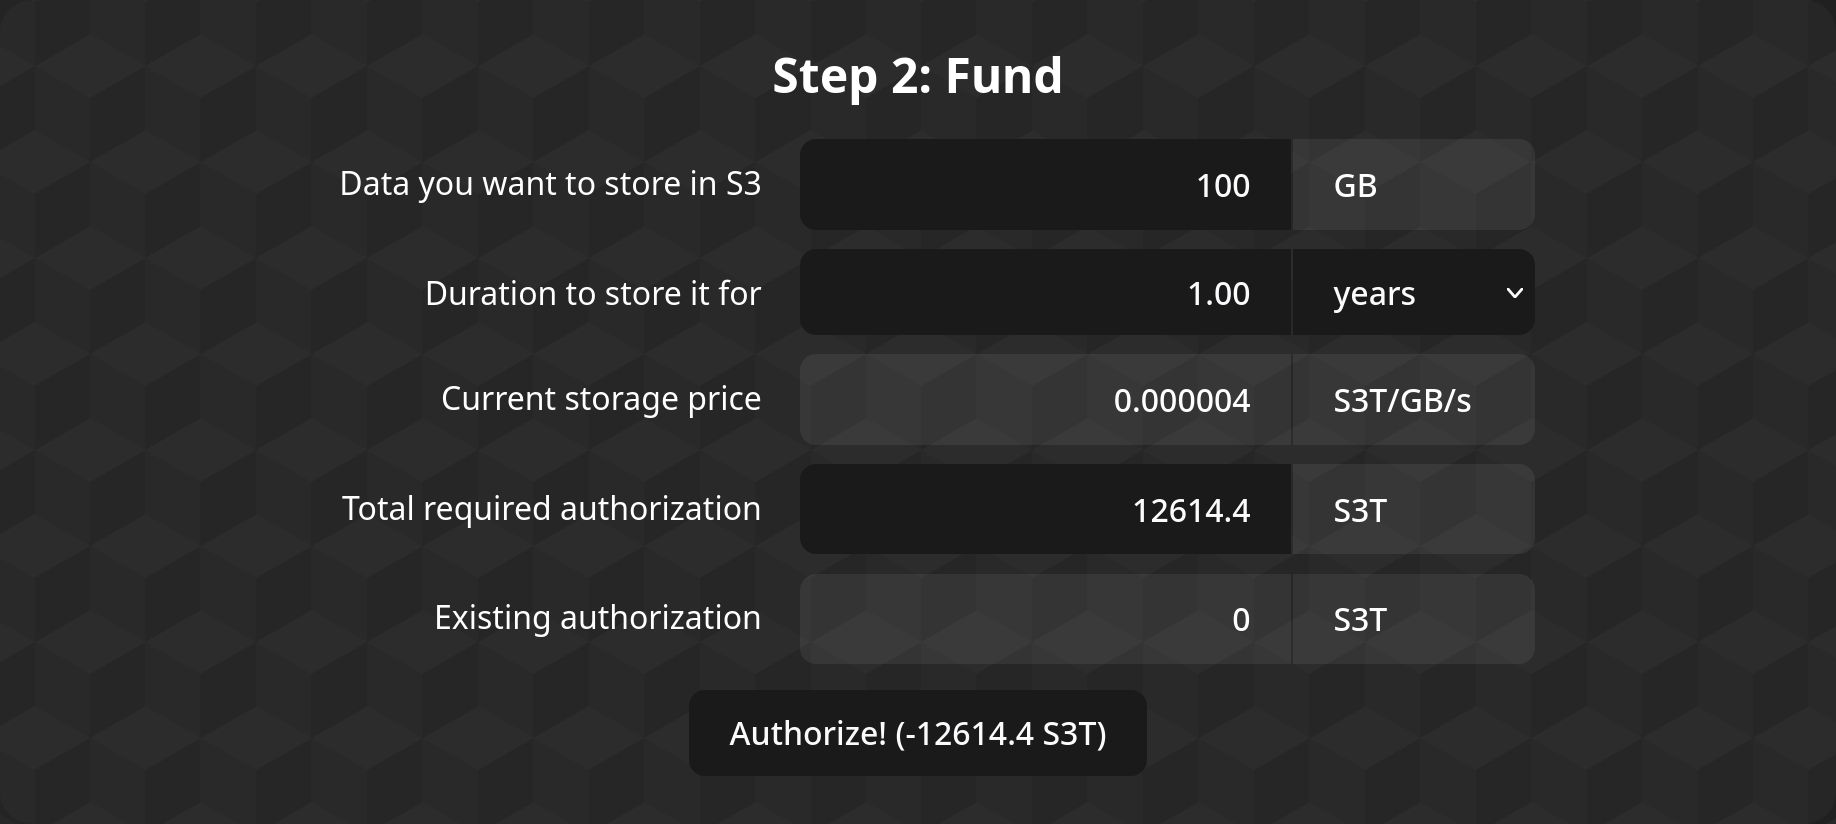
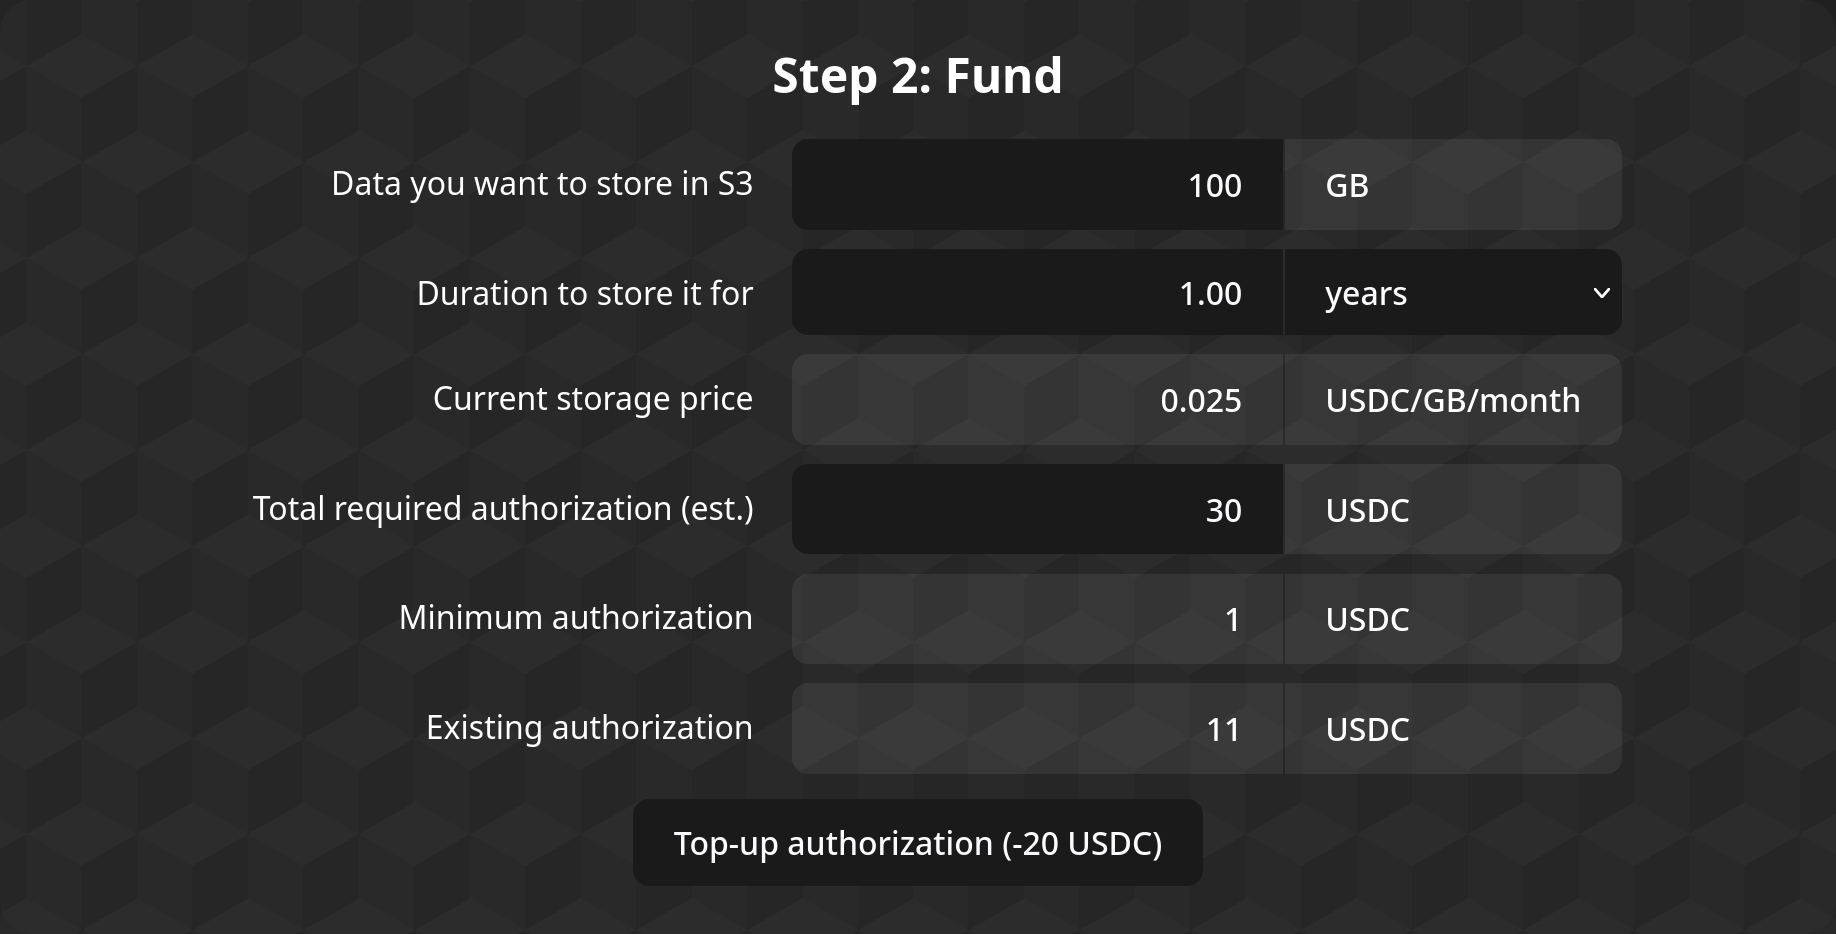
fix: Correct token symbol, decimals, and pricing

diff --git a/frontend/src/App.tsx b/frontend/src/App.tsx
@@ -27,13 +27,13 @@ function App() {
   const walletClient = useWalletClient()
   const { connect } = useConnect()
 
-  const oneGb = parseUnits('1', 6)
-  const [ amountGb, setAmountGbRaw ] = useState<bigint>(100n * oneGb)
-  const [ durationMultiplier, setDurationMultiplier ] = useState<number>(60 * 60 * 24 * 365)
-  const currency = 'S3T'
-  const decimals = 18
-  const priceGbSec = parseUnits('0.000004', decimals)
-  const [ funds, setFunds ] = useState<bigint>(() => BigInt(durationMultiplier) * amountGb * priceGbSec / oneGb)
+  const oneGb = 1000*1000
+  const [ amountGb, setAmountGbRaw ] = useState<bigint>(100n * 1000n*1000n)
+  const [ durationMultiplier, setDurationMultiplier ] = useState<number>(12)
+  const currency = 'USDC'
+  const decimals = 6
+  const priceGbMonth = parseUnits('0.025', decimals)
+  const [ funds, setFunds ] = useState<bigint>(() => BigInt(Math.round(durationMultiplier * Number(amountGb * priceGbMonth) / oneGb)))
   const [ existingDeposit, setExistingDeposit ] = useState<bigint | undefined>(undefined)
   const [ depositInProgress, setDepositInProgress ] = useState(false)
   const [ depositError, setDepositError ] = useState('')
@@ -47,11 +47,11 @@ function App() {
   const bucketLinkHref = `//${s3AappHost}`
   const consoleLink = `https://${s3consoleAappHost}` // `${bucketId}.${s3consoleAappHost}`
   const consoleLinkHref = `//${s3consoleAappHost}/browser/${bucketId}`
-  const minDeposit = parseUnits('10', 18) // TODO
+  const minDeposit = parseUnits('1', 6)
 
-  const duration: number = Number(funds) / Number(amountGb) / Number(priceGbSec) * Number(oneGb)
+  const duration: number = Number(funds) / Number(amountGb) / Number(priceGbMonth) * oneGb
   function setDuration(newDuration: number) {
-    setFunds(BigInt(newDuration) * amountGb * priceGbSec / oneGb)
+    setFunds(BigInt(Math.round(newDuration * Number(amountGb * priceGbMonth) / oneGb)))
   }
   function setAmountGb(newAmountGb: bigint) {
     if (newAmountGb < 1n) newAmountGb = 1n
@@ -162,27 +162,30 @@ function App() {
             value={durationMultiplier}
             onChange={e => setDurationMultiplier(parseInt(e.target.value))}
           >
-            <option value={1}>seconds</option>
-            <option value={60}>minutes</option>
-            <option value={60 * 60}>hours</option>
-            <option value={60 * 60 * 24}>days</option>
-            <option value={60 * 60 * 24 * 7}>weeks</option>
-            <option value={60 * 60 * 24 * 30}>months</option>
-            <option value={60 * 60 * 24 * 365}>years</option>
+            <option value={1 / 30 / 24}>hours</option>
+            <option value={1 / 30}>days</option>
+            <option value={1 / 30 * 7}>weeks</option>
+            <option value={1}>months</option>
+            <option value={12}>years</option>
           </select>
         </label>
         <label>
           <span>Current storage price</span>
-          <span className="fake-field">{formatUnits(priceGbSec, decimals)}</span>
-          <span className="fake-field"> {currency}/GB/s</span>
+          <span className="fake-field">{formatUnits(priceGbMonth, decimals)}</span>
+          <span className="fake-field"> {currency}/GB/month</span>
         </label>
         <label>
-          <span>Total required authorization</span>
+          <span>Total required authorization (est.)</span>
           <BlurUpdatedInput
             value={funds}
             stringify={v => formatUnits(v, decimals)}
             parse={v => parseUnits(v, decimals)}
             onChange={setFunds}/>
+          <span className="fake-field"> {currency}</span>
+        </label>
+        <label>
+          <span>Minimum authorization</span>
+          <span className="fake-field">{formatUnits(minDeposit, decimals)}</span>
           <span className="fake-field"> {currency}</span>
         </label>
           <label>

diff --git a/backend/minio-manager/payment.go b/backend/minio-manager/payment.go
@@ -33,8 +33,8 @@ func init() {
 		ChannelDiscriminator[i] = discriminatorString[i]
 	}
 
-	_, _ = RequiredAllowance.SetString("10000000000000000000", 10) // 10e18
-	_, _ = MaximumOverdraft.SetString("1000000000000000000", 10)   // 1e18
+	_, _ = RequiredAllowance.SetString("1000000", 10) // 1e6
+	_, _ = MaximumOverdraft.SetString("10000000", 10)  // 10e6
 }
 
 type paymentChannelWatch struct {
@@ -138,8 +138,8 @@ func (p *PaymentManager) reconcilationLoop(ctx context.Context) (err error) {
 		return
 	}
 
-	priceGbMin := big.NewInt(int64(0.000004e18) * 60)
-	minPayment := big.NewInt(int64(0.1e18))
+	priceGbMonth := big.NewInt(int64(0.0025e6))
+	minPayment := big.NewInt(int64(0.1e6))
 
 	errs := []error{}
 
@@ -155,8 +155,12 @@ func (p *PaymentManager) reconcilationLoop(ctx context.Context) (err error) {
 		bucketOwnerAddress := common.HexToAddress(bucketId)
 
 		totalToPay := &big.Int{}
-		totalToPay = totalToPay.Mul(byteMinutes, priceGbMin)
-		totalToPay = totalToPay.Div(totalToPay, big.NewInt(1024*1024))
+		totalToPay = totalToPay.Mul(byteMinutes, priceGbMonth)
+		// totalToPay :: byte * minute * $ / GiB / month
+		totalToPay = totalToPay.Div(totalToPay, big.NewInt(30 * 24 * 60))
+		// totalToPay :: byte * $ / GiB
+		totalToPay = totalToPay.Div(totalToPay, big.NewInt(1000*1000))
+		// totalToPay :: $
 
 		watch, err := p.getWatch(ctx, bucketOwnerAddress)
 		if err != nil {

diff --git a/docs/USAGE.md b/docs/USAGE.md
@@ -14,11 +14,11 @@ To proceed to the next step, you need to connect a wallet.
 
 ![Screenshot of the Step 2 interface](./assets/step-2.png)
 
-The second step is for authorizing the S3 Aapp to access funds for the S3 storage space. The form displays the current price for storage deals (in USDC per GB-sec), the currently-authorized amount, as well as fields for configuring the new authorization amount.
+The second step is for authorizing the S3 Aapp to access funds for the S3 storage space. The form displays the current price for storage deals (in USDC per GB-month), the currently-authorized amount, as well as fields for configuring the new authorization amount.
 
 You can either input the amount of data (in GB) and duration (in days/years) you want to authorize funds for, using the first two fields, or you can directly use the forth box ("Total required authorization") to input the amount of funds you are allowing the Aapp to access.
 
-When you press the button at the bottom, the frontend would submit a transaction for adjusting the on-chain authorization so it matches the wanted authorization, plus the minimum required amount of funds.
+When you press the button at the bottom, the frontend would submit a transaction for adjusting the on-chain authorization so it matches the wanted authorization, plus the minimum required authorization.
 
 To proceed to the next step, you need to have authorized at least the minimum amount required. Note that dipping under the required minimum would result in no longer being able to access the Aapp.
 
